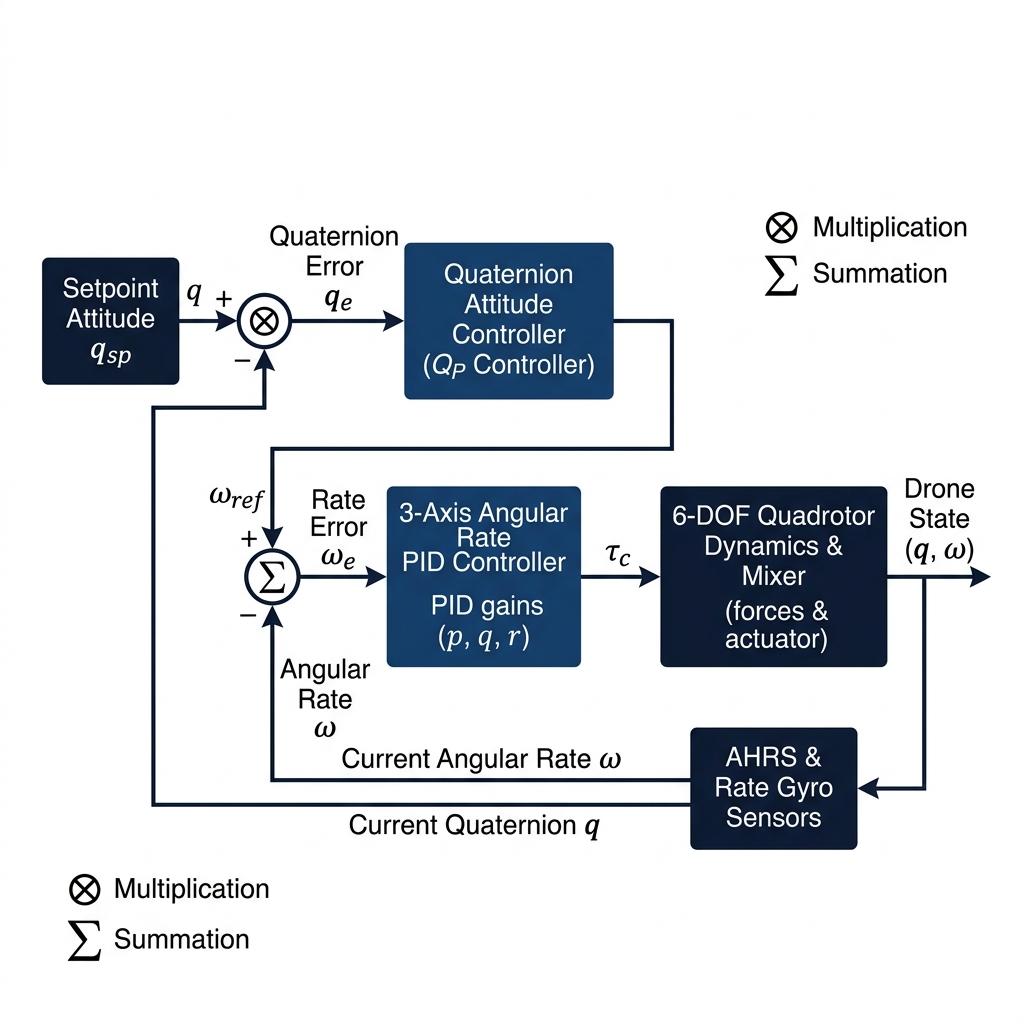
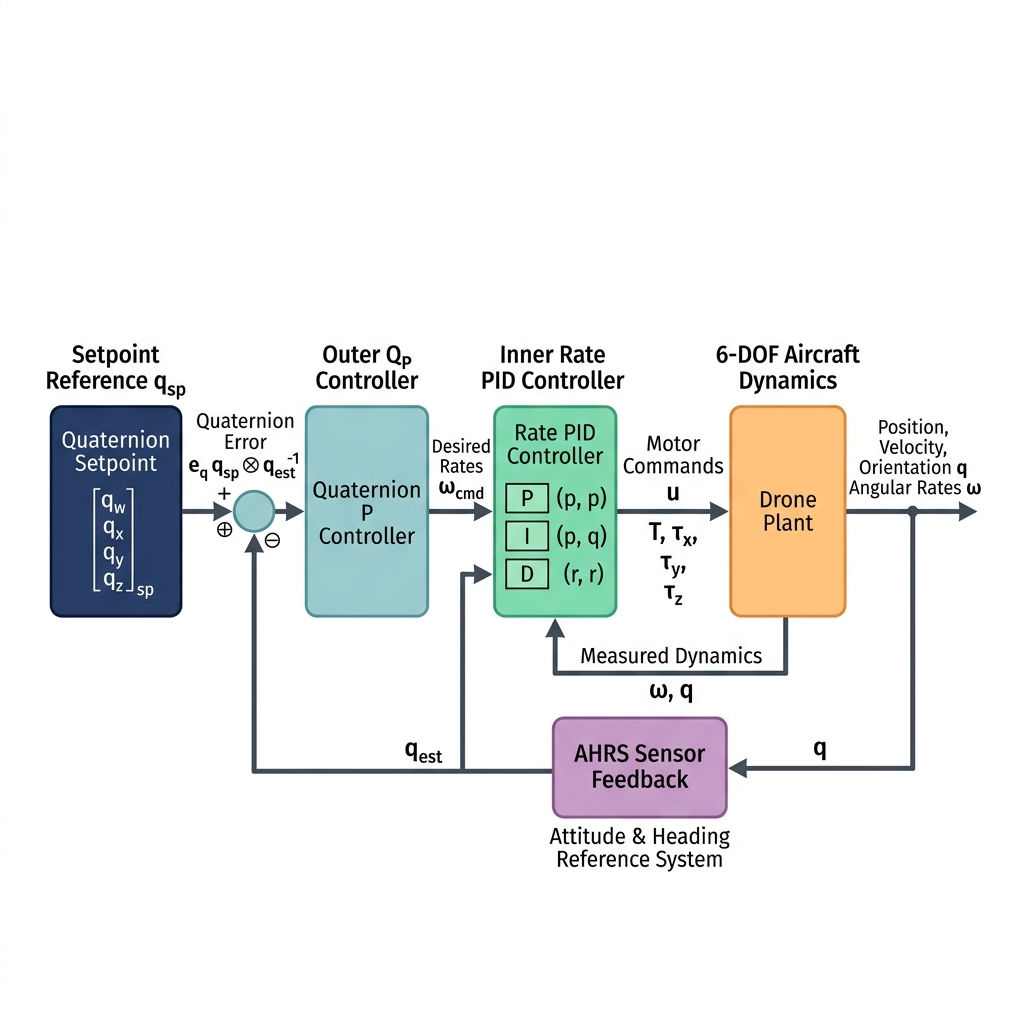
Added architecture diagram

Changed region(s): [[0.0312, 0.2188, 0.9688, 0.8438], [0.75, 0.1875, 0.9375, 0.3125], [0.0625, 0.8438, 0.2812, 0.9375]]

diff --git a/PROJECT_REPORT.md b/PROJECT_REPORT.md
@@ -62,7 +62,7 @@ To overcome these shortcomings, this project implements a unit quaternion attitu
 **Keywords:** `Quaternion Algebra`, `Hamilton Product`, `Attitude Error`, `Axis-Angle Representation`, `Shortest Arc`, `Airspeed Scaling`
 
 <p align="center">
-  <img src="figures/option_a_control_architecture.png" alt="Cascaded Quaternion Control Architecture Diagram" width="850"/>
+  <img src="figures/methodology_control_architecture.png" alt="Cascaded Quaternion Control Architecture Diagram" width="850"/>
   <br>
   <em>Figure 2.1: Cascaded Quaternion Attitude Control & Inner-Loop Rate Loop System Architecture.</em>
 </p>

diff --git a/README.md b/README.md
@@ -58,7 +58,7 @@ This project implements the quaternion-based attitude control scheme proposed by
 **Keywords:** `Quaternion Algebra`, `Hamilton Product`, `Attitude Error`, `Axis-Angle Representation`, `Shortest Arc`, `Airspeed Scaling`
 
 <p align="center">
-  <img src="figures/option_a_control_architecture.png" alt="Cascaded Quaternion Control Architecture Diagram" width="850"/>
+  <img src="figures/methodology_control_architecture.png" alt="Cascaded Quaternion Control Architecture Diagram" width="850"/>
   <br>
   <em>Figure 2.1: Cascaded Quaternion Attitude Control & Inner-Loop Rate Loop System Architecture.</em>
 </p>
